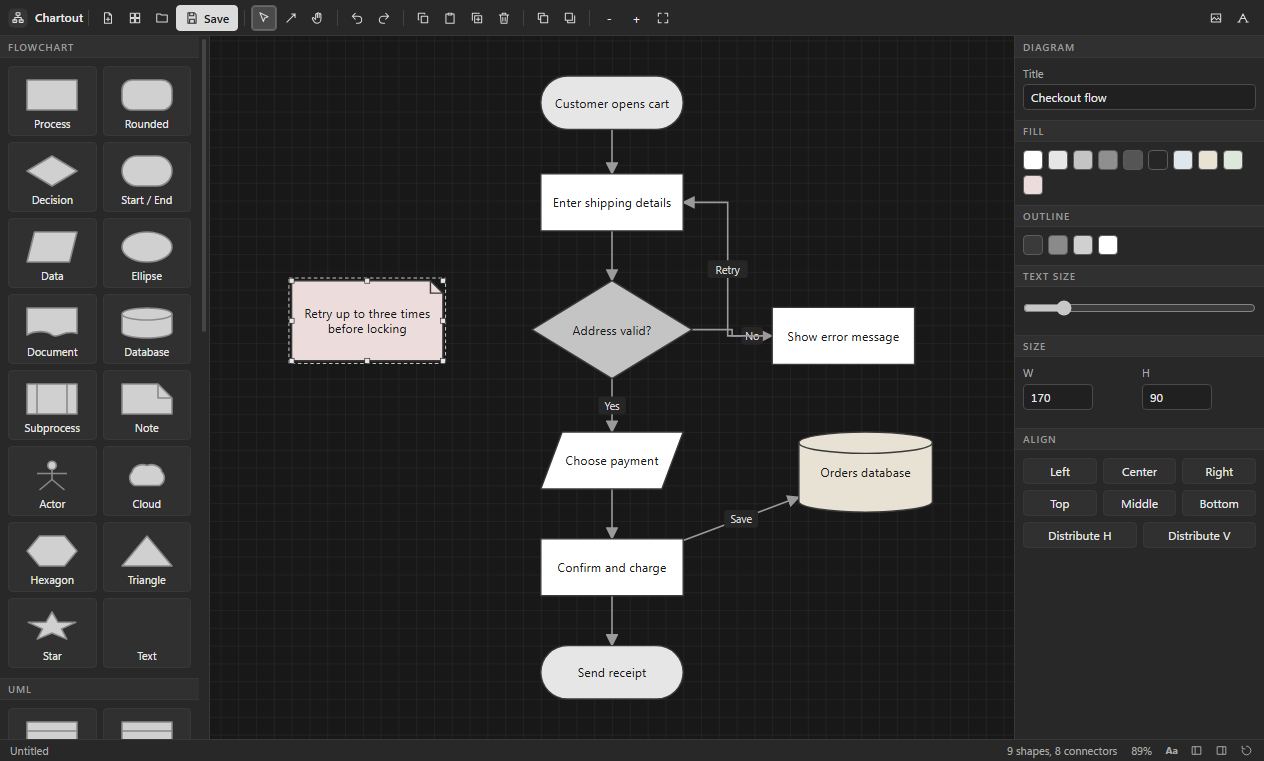
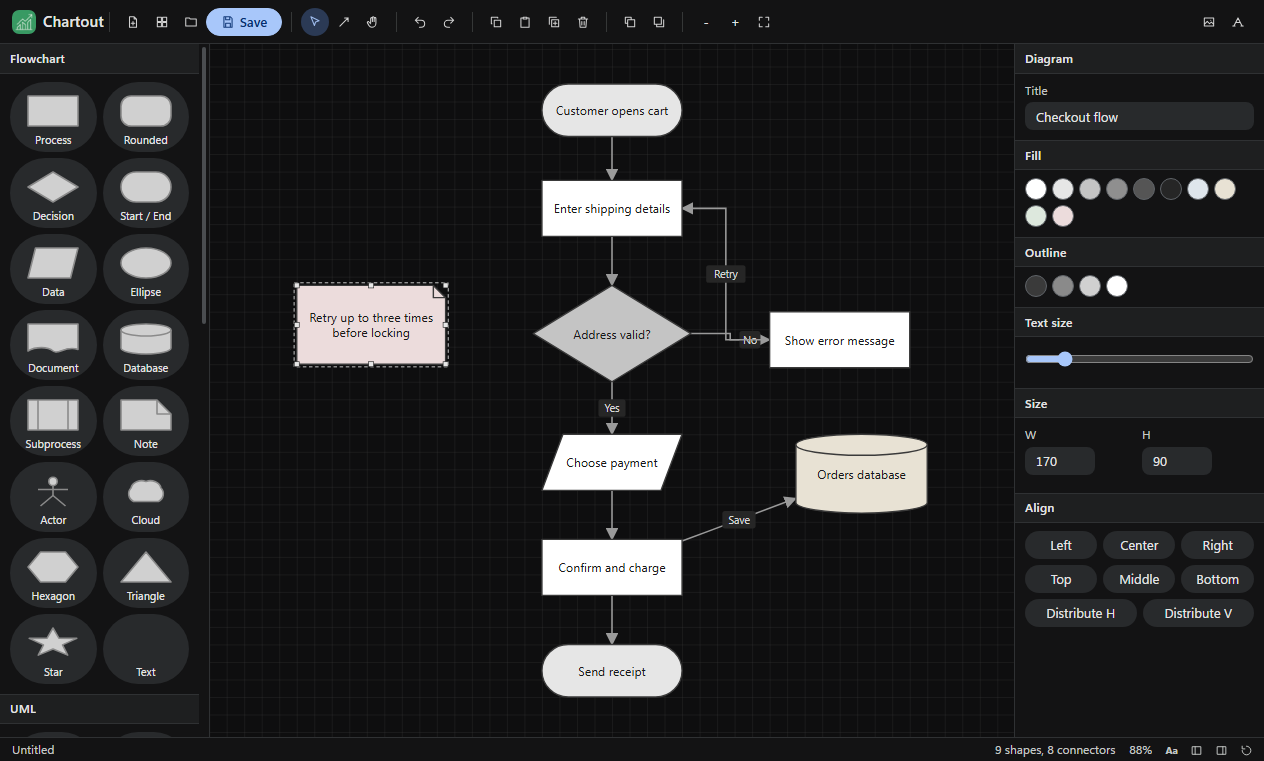
fix: Chartout 1.0.16
New Google-style look: charcoal theme, pill buttons, blue accent, colour app logo. Refreshed README and screenshots.

diff --git a/renderer/lookout.css b/renderer/lookout.css
@@ -1,68 +1,69 @@
-/* Lookout gray UI kit v3: compact pro workspace, flat, no hue. Shared by every Lookout app. */
+/* Lookout UI kit v4: Google-style dark (AI Studio / Colab / Gemini): soft surfaces, pill buttons, blue accent. Shared by every Lookout app. */
 :root{
-  --bg:#202020; --bg-2:#282828; --bg-3:#303030; --bg-4:#3a3a3a; --stage:#181818;
-  --line:#383838; --line-2:#4a4a4a; --line-3:#5c5c5c;
-  --text:#e8e8e8; --text-2:#ababab; --text-3:#9a9a9a;
-  --accent:#dcdcdc; --accent-ink:#1b1b1b; --focus:#a0a0a0;
-  --radius:4px; --h:26px; --pad:8px;
-  --font:"Segoe UI Variable Text","Segoe UI",system-ui,-apple-system,sans-serif; --mono:Consolas,"Cascadia Mono",monospace;
+  --bg:#131314; --bg-2:#1e1f20; --bg-3:#282a2c; --bg-4:#333537; --stage:#0e0e0f;
+  --line:#2f3133; --line-2:#444746; --line-3:#5f6368;
+  --text:#e3e3e3; --text-2:#c4c7c5; --text-3:#9aa0a6;
+  --accent:#a8c7fa; --accent-ink:#062e6f; --accent-2:#0b57d0; --accent-soft:#2b3a55; --focus:#a8c7fa;
+  --radius:8px; --h:28px; --pad:10px;
+  --font:"Google Sans Text","Google Sans",Roboto,"Segoe UI Variable Text","Segoe UI",system-ui,-apple-system,sans-serif; --mono:Consolas,"Cascadia Mono",monospace;
 }
 *{box-sizing:border-box;margin:0;padding:0}
-html,body{height:100%;background:var(--bg);color:var(--text);font:12px/1.4 var(--font);overflow:hidden;user-select:none;-webkit-font-smoothing:antialiased}
+html,body{height:100%;background:var(--bg);color:var(--text);font:13px/1.45 var(--font);overflow:hidden;user-select:none;-webkit-font-smoothing:antialiased}
 button,input,select,textarea{font:inherit;color:inherit}
 .app{display:grid;grid-template-rows:auto 1fr auto;height:100vh}
 
 /* ---------- toolbar ---------- */
-.toolbar{display:flex;align-items:center;gap:1px;padding:4px 8px;min-height:36px;background:var(--bg-2);border-bottom:1px solid var(--line);flex-wrap:nowrap;overflow-x:auto;overflow-y:hidden;scrollbar-width:none}
+.toolbar{display:flex;align-items:center;gap:1px;padding:6px 12px;min-height:44px;background:var(--bg);border-bottom:1px solid var(--line);flex-wrap:nowrap;overflow-x:auto;overflow-y:hidden;scrollbar-width:none}
 .toolbar::-webkit-scrollbar{height:0}
 .toolbar>*{flex-shrink:0}
-.toolbar .sep{width:1px;height:16px;align-self:center;background:var(--line-2);margin:0 5px;opacity:.8}
+.toolbar .sep{width:1px;height:20px;align-self:center;background:var(--line-2);margin:0 8px;opacity:.7}
 .toolbar .grow{flex:1 1 auto;min-width:8px}
 .toolbar input[type=text],.toolbar input[type=search]{width:150px}
-.brand{display:flex;align-items:center;gap:7px;padding-right:2px;margin-right:2px;font-weight:600;font-size:12px;color:var(--text)}
-.brand img{width:20px;height:20px;border-radius:5px;display:block}
+.brand{display:flex;align-items:center;gap:7px;padding-right:2px;margin-right:2px;font-weight:500;font-size:15px;letter-spacing:.1px;color:var(--text)}
+.brand img{width:24px;height:24px;border-radius:7px;display:block}
 .brand+.sep{margin-left:0}
 
 /* ---------- buttons ---------- */
-.btn{display:inline-flex;align-items:center;justify-content:center;gap:5px;height:var(--h);padding:0 8px;background:var(--bg-3);border:1px solid var(--line);border-radius:var(--radius);cursor:pointer;white-space:nowrap;line-height:1;transition:background .08s,border-color .08s}
-.btn:hover{background:var(--bg-4);border-color:var(--line-2)}
-.btn:active{background:#262626}
+.btn{display:inline-flex;align-items:center;justify-content:center;gap:5px;height:var(--h);padding:0 14px;background:var(--bg-3);border:1px solid transparent;border-radius:999px;cursor:pointer;white-space:nowrap;line-height:1;transition:background .08s,border-color .08s}
+.btn:hover{background:var(--bg-4)}
+.btn:active{background:#3c3f41}
 .btn:focus-visible,input:focus-visible,select:focus-visible,textarea:focus-visible,[tabindex]:focus-visible{outline:2px solid var(--focus);outline-offset:1px}
-.btn.primary{background:var(--accent);color:var(--accent-ink);border-color:var(--accent);font-weight:600}
-.btn.primary:hover{background:#ececec;border-color:#ececec}
-.btn.on{background:#4a4a4a;border-color:var(--line-3);box-shadow:inset 0 0 0 1px #6a6a6a}
+.btn.primary{background:var(--accent);color:var(--accent-ink);border-color:var(--accent);font-weight:500}
+.btn.primary:hover{background:#c2d7fb;border-color:#c2d7fb;box-shadow:0 1px 3px rgba(0,0,0,.4)}
+.btn.on{background:var(--accent-soft);color:var(--accent);border-color:transparent}
 .btn[disabled]{opacity:.45;pointer-events:none}
-.btn.icon{padding:0;width:var(--h);min-width:var(--h)}
+.btn.icon{padding:0;width:var(--h);min-width:var(--h);border-radius:50%}
 .btn .ic{width:14px;height:14px;flex-shrink:0;display:block;opacity:.92}
 .toolbar .btn:not(.primary):not(.on){background:transparent;border-color:transparent}
-.toolbar .btn:not(.primary):not(.on):hover{background:var(--bg-4);border-color:var(--line-2)}
+.toolbar .btn:not(.primary):not(.on):hover{background:var(--bg-3);border-color:transparent}
 
 /* icon-only toolbar: names live in the tooltip (Aa in the status bar brings the labels back) */
-.toolbar:not(.lbl) .btn:not(.primary):has(> svg.ic),.toolbar.c3 .btn:has(> svg.ic){font-size:0;gap:0;width:var(--h);padding:0}
+.toolbar:not(.lbl) .btn:not(.primary):has(> svg.ic),.toolbar.c3 .btn:has(> svg.ic){font-size:0;gap:0;width:var(--h);padding:0;border-radius:50%}
 .toolbar.c2 .brand span{display:none}
 .toolbar.c2 input[type=text],.toolbar.c2 input[type=search]{width:110px}
 .toolbar.lbl.c1 .btn.minor:not(.primary):has(> svg.ic),.toolbar.lbl.c2 .btn:not(.primary):has(> svg.ic){font-size:0;gap:0;width:var(--h);padding:0}
 
 /* ---------- fields ---------- */
-input[type=text],input[type=number],input[type=search],input[type=date],select,textarea{background:var(--bg);border:1px solid var(--line-2);border-radius:var(--radius);padding:0 7px;height:var(--h);user-select:text;min-width:0;font-size:12px}
+input[type=text],input[type=number],input[type=search],input[type=date],select,textarea{background:var(--bg-3);border:1px solid transparent;border-radius:var(--radius);padding:0 10px;height:var(--h);user-select:text;min-width:0;font-size:13px}
 input[type=number],.frow>input,.field>input{font-variant-numeric:tabular-nums}
 textarea{height:auto;padding:5px 7px;resize:vertical;line-height:1.4}
 select{padding-right:4px;cursor:pointer}
-input:hover,select:hover,textarea:hover{border-color:var(--line-3)}
-input[type=range]{accent-color:#c8c8c8;height:var(--h)}
-input[type=checkbox]{accent-color:#c8c8c8;width:14px;height:14px;cursor:pointer}
-input[type=color]{border:1px solid var(--line-2);background:var(--bg);width:26px;height:var(--h);padding:2px;border-radius:var(--radius)}
-label.field{display:flex;flex-direction:column;gap:3px;color:var(--text-2);font-size:11px}
-label.field>input,label.field>select,label.field>textarea{width:100%;color:var(--text);font-size:12px}
+input:hover,select:hover,textarea:hover{background:var(--bg-4)}
+input[type=text]:focus,input[type=number]:focus,input[type=search]:focus,input[type=date]:focus,select:focus,textarea:focus{outline:none;border-color:var(--accent);background:var(--bg-2)}
+input[type=range]{accent-color:#a8c7fa;height:var(--h)}
+input[type=checkbox]{accent-color:#a8c7fa;width:14px;height:14px;cursor:pointer}
+input[type=color]{border:1px solid var(--line-2);background:var(--bg-3);width:26px;height:var(--h);padding:2px;border-radius:var(--radius)}
+label.field{display:flex;flex-direction:column;gap:3px;color:var(--text-2);font-size:12px}
+label.field>input,label.field>select,label.field>textarea{width:100%;color:var(--text);font-size:13px}
 
 /* ---------- layout ---------- */
 .main{display:flex;min-height:0;min-width:0}
-.sidebar{width:210px;background:var(--bg-2);border-right:1px solid var(--line);overflow:auto;padding:var(--pad);flex-shrink:0;min-width:0}
+.sidebar{width:210px;background:var(--bg);border-right:1px solid var(--line);overflow:auto;padding:var(--pad);flex-shrink:0;min-width:0}
 .sidebar.right{border-right:0;border-left:1px solid var(--line);width:250px}
 .sidebar.collapsed{display:none!important}
-.sidebar h3,.panel-title{font-size:10px;text-transform:uppercase;letter-spacing:.09em;color:var(--text-3);font-weight:600}
+.sidebar h3,.panel-title{font-size:12px;letter-spacing:.2px;color:var(--text-2);font-weight:500}
 .sidebar h3{margin:12px 0 6px}
-.sidebar>h3{display:flex;align-items:center;gap:6px;height:22px;margin:10px calc(var(--pad) * -1) 8px;padding:0 var(--pad);background:var(--bg-3);border-top:1px solid var(--line);border-bottom:1px solid var(--line)}
+.sidebar>h3{display:flex;align-items:center;gap:6px;height:30px;margin:10px calc(var(--pad) * -1) 8px;padding:0 var(--pad);background:var(--bg-2);border-top:1px solid var(--line);border-bottom:1px solid var(--line);color:var(--text)}
 .sidebar>h3:first-child{margin-top:calc(var(--pad) * -1);border-top:0}
 .panel-title{margin:12px 0 6px}
 .sidebar input[type=text],.sidebar input[type=search],.sidebar select,.sidebar textarea{width:100%}
@@ -73,20 +74,20 @@ label.field>input,label.field>select,label.field>textarea{width:100%;color:var(-
 .sidebar .btn{width:auto}
 .sidebar>.btn{width:100%;margin-bottom:5px}
 .stage{flex:1;min-width:0;min-height:0;position:relative;background:var(--stage);overflow:auto}
-.status{display:flex;gap:14px;align-items:center;height:22px;padding:0 10px;background:var(--bg-2);border-top:1px solid var(--line);color:var(--text-2);font-size:11px;white-space:nowrap;overflow:hidden}
+.status{display:flex;gap:14px;align-items:center;height:24px;padding:0 12px;background:var(--bg);border-top:1px solid var(--line);color:var(--text-2);font-size:12px;white-space:nowrap;overflow:hidden}
 .status .grow{flex:1}
 body.hasdock .status{padding-right:112px}
-.wbs{position:fixed;right:6px;bottom:2px;height:18px;display:flex;gap:2px;z-index:8;background:var(--bg-2);padding-left:6px}
+.wbs{position:fixed;right:6px;bottom:2px;height:18px;display:flex;gap:2px;z-index:8;background:var(--bg);padding-left:6px}
 .wbs[hidden]{display:none}
-.wbs .wb{height:18px;min-width:22px;padding:0 4px;display:inline-flex;align-items:center;justify-content:center;font-size:10px;font-weight:700;line-height:1;background:transparent;border:1px solid transparent;border-radius:3px;color:var(--text-2);cursor:pointer}
+.wbs .wb{height:18px;min-width:22px;padding:0 4px;display:inline-flex;align-items:center;justify-content:center;font-size:10px;font-weight:700;line-height:1;background:transparent;border:1px solid transparent;border-radius:6px;color:var(--text-2);cursor:pointer}
 .wbs .wb[hidden]{display:none}
 .wbs .wb svg{width:13px;height:13px;display:block}
-.wbs .wb:hover{background:var(--bg-4);border-color:var(--line-2);color:var(--text)}
-.wbs .wb.on{background:var(--bg-4);border-color:var(--line-3);color:var(--text)}
+.wbs .wb:hover{background:var(--bg-3);color:var(--text)}
+.wbs .wb.on{background:var(--accent-soft);color:var(--accent)}
 .list{display:flex;flex-direction:column;gap:1px}
-.list .item{padding:3px 6px;border-radius:var(--radius);cursor:pointer;border:1px solid transparent;display:flex;gap:6px;align-items:center;min-height:26px}
+.list .item{padding:3px 10px;border-radius:999px;cursor:pointer;border:1px solid transparent;display:flex;gap:6px;align-items:center;min-height:26px}
 .list .item:hover{background:var(--bg-3)}
-.list .item.sel{background:var(--bg-4);border-color:var(--line-2)}
+.list .item.sel{background:var(--accent-soft);color:var(--accent);border-color:transparent}
 .row{display:flex;gap:5px;align-items:center}
 .grow{flex:1 1 auto;min-width:0}
 .brow{display:grid;grid-template-columns:1fr 1fr;gap:5px;margin-bottom:5px}
@@ -99,17 +100,17 @@ body.hasdock .status{padding-right:112px}
 .sidebar .swatches{margin-bottom:8px}
 .list .item .btn{height:22px!important;width:24px!important;padding:0!important;font-size:0!important;gap:0;background:transparent;border-color:transparent;opacity:.55}
 .list .item:hover .btn,.list .item.sel .btn{opacity:1}
-.list .item .btn:hover{background:var(--bg-4);border-color:var(--line-2)}
+.list .item .btn:hover{background:var(--bg-4)}
 .col{display:flex;flex-direction:column;gap:5px}
 .muted{color:var(--text-2)}
 .empty{position:absolute;inset:0;display:flex;flex-direction:column;align-items:center;justify-content:center;gap:10px;color:var(--text-3);text-align:center;padding:24px}
-.empty .big{font-size:16px;color:var(--text-2);font-weight:600}
+.empty .big{font-size:20px;color:var(--text);font-weight:400}
 
 /* panel grip: drag to resize, double-click to collapse or restore */
 .grip{position:relative;flex:0 0 5px;width:5px;margin:0 -3px 0 -2px;z-index:6;cursor:col-resize;touch-action:none}
 .grip::after{content:"";position:absolute;top:0;bottom:0;left:2px;width:1px;background:transparent;transition:background .1s}
-.grip:hover::after,.grip.drag::after{background:var(--line-3);width:2px;left:1px}
-.grip.collapsed{flex:0 0 8px;width:8px;margin:0;background:var(--bg-2);border-left:1px solid var(--line);border-right:1px solid var(--line)}
+.grip:hover::after,.grip.drag::after{background:var(--accent);width:2px;left:1px}
+.grip.collapsed{flex:0 0 8px;width:8px;margin:0;background:var(--bg);border-left:1px solid var(--line);border-right:1px solid var(--line)}
 .grip.collapsed::after{left:3px;top:calc(50% - 14px);bottom:auto;height:28px;width:2px;background:var(--line-3);border-radius:2px}
 .grip.collapsed:hover{background:var(--bg-3)}
 body.gripping{cursor:col-resize}
@@ -117,30 +118,30 @@ body.gripping *{cursor:col-resize!important;user-select:none!important}
 
 /* ---------- overlays ---------- */
 .modal-back{position:fixed;inset:0;background:rgba(0,0,0,.6);display:flex;align-items:center;justify-content:center;z-index:50}
-.modal{background:var(--bg-2);border:1px solid var(--line-2);border-radius:8px;min-width:340px;max-width:80vw;max-height:85vh;overflow:auto;padding:16px;display:flex;flex-direction:column;gap:12px;box-shadow:0 18px 50px rgba(0,0,0,.5)}
-.modal h2{font-size:14px;font-weight:600}
-.toast{position:fixed;left:50%;bottom:34px;transform:translateX(-50%);background:var(--bg-4);border:1px solid var(--line-3);padding:7px 14px;border-radius:6px;z-index:60;box-shadow:0 8px 24px rgba(0,0,0,.4)}
-.progress{height:5px;background:var(--bg);border:1px solid var(--line);border-radius:4px;overflow:hidden}
+.modal{background:var(--bg-2);border:0;border-radius:24px;min-width:360px;max-width:80vw;max-height:85vh;overflow:auto;padding:24px;display:flex;flex-direction:column;gap:14px;box-shadow:0 8px 32px rgba(0,0,0,.6)}
+.modal h2{font-size:20px;font-weight:400}
+.toast{position:fixed;left:50%;bottom:34px;transform:translateX(-50%);background:#e3e3e3;color:#1f1f1f;border:0;padding:10px 18px;border-radius:8px;z-index:60;box-shadow:0 8px 24px rgba(0,0,0,.4)}
+.progress{height:6px;background:var(--bg-3);border:0;border-radius:999px;overflow:hidden}
 .progress>i,.progress>div{display:block;height:100%;background:var(--accent);width:0}
 
 /* ---------- tables ---------- */
 table.grid{border-collapse:separate;border-spacing:0;width:100%}
 table.grid th,table.grid td{border-bottom:1px solid var(--line);padding:0 10px;height:30px;text-align:left;vertical-align:middle}
-table.grid th{background:var(--bg-2);color:var(--text-2);font-weight:600;font-size:11px;position:sticky;top:0;z-index:1;height:26px}
-table.grid tbody tr:hover td{background:#242424}
-table.grid tr.sel td{background:#323232}
+table.grid th{background:var(--bg-2);color:var(--text-2);font-weight:500;font-size:12px;position:sticky;top:0;z-index:1;height:26px}
+table.grid tbody tr:hover td{background:var(--bg-2)}
+table.grid tr.sel td{background:var(--accent-soft)}
 table.grid tbody tr{cursor:default}
 table.grid td .btn{height:22px;margin-left:6px;vertical-align:middle}
 table.grid td{white-space:nowrap}
 
 /* ---------- misc ---------- */
 ::-webkit-scrollbar{width:10px;height:10px}
-::-webkit-scrollbar-thumb{background:#454545;border:3px solid transparent;background-clip:padding-box;border-radius:8px}
-::-webkit-scrollbar-thumb:hover{background:#5a5a5a;background-clip:padding-box;border:3px solid transparent}
+::-webkit-scrollbar-thumb{background:#4a4d50;border:3px solid transparent;background-clip:padding-box;border-radius:8px}
+::-webkit-scrollbar-thumb:hover{background:#6b6f73;background-clip:padding-box;border:3px solid transparent}
 ::-webkit-scrollbar-track,::-webkit-scrollbar-corner{background:transparent}
 .swatches{display:flex;flex-wrap:wrap;gap:5px}
-.swatches button{width:20px;height:20px;border:1px solid var(--line-3);border-radius:4px;cursor:pointer;padding:0}
+.swatches button{width:22px;height:22px;border:1px solid var(--line-3);border-radius:50%;cursor:pointer;padding:0}
 .swatches button.on{outline:2px solid var(--accent);outline-offset:2px}
-kbd{font-family:var(--mono);font-size:10px;background:var(--bg-3);border:1px solid var(--line-2);border-bottom-width:2px;border-radius:3px;padding:0 4px}
+kbd{font-family:var(--mono);font-size:10px;background:var(--bg-3);border:1px solid var(--line-2);border-bottom-width:2px;border-radius:4px;padding:0 5px}
 
 input::placeholder,textarea::placeholder{color:var(--text-3);opacity:1}

diff --git a/README.md b/README.md
@@ -1,8 +1,10 @@
-<p align="center"><img src="screenshots/banner.png" alt="Chartout" width="100%"></p>
+<p align="center"><img src="screenshots/logo.png" alt="Chartout" width="128"></p>
 
-<p align="center"><b>Flowcharts and diagrams</b><br>Version 1.0.3 for Windows · Free · Offline · No account</p>
+<h1 align="center">Chartout</h1>
 
-<p align="center"><a href="https://github.com/plawanpawin-byte/chartout/releases/latest"><b>Download Chartout</b></a> · <a href="https://github.com/plawanpawin-byte/Lookout">All Lookout apps</a></p>
+<p align="center"><b>Flowcharts and diagrams</b><br>Version 1.0.16 for Windows · Free · Offline · No account</p>
+
+<p align="center"><a href="https://github.com/plawanpawin-byte/chartout/releases/latest"><b>Download Chartout</b></a> · <a href="https://github.com/plawanpawin-byte/lookout-launcher">Lookout launcher</a> · <a href="https://github.com/plawanpawin-byte/Lookout">All Lookout apps</a></p>
 
 ---
 
@@ -12,11 +14,51 @@ Chartout is a diagram maker for flowcharts, org charts, process maps and quick s
 
 ![Chartout](screenshots/01-flowchart.png)
 
-**On this page:** [Screenshots](#see-it-in-action) · [Interface](#the-interface) · [Features](#everything-it-can-do) · [How to use it](#how-to-use-it) · [Shortcuts](#keyboard-shortcuts) · [Formats](#files-and-formats) · [Privacy](#private-by-design) · [Install](#install) · [Questions](#questions)
+**On this page:** [In plain words](#in-plain-words) · [Who it is for](#who-it-is-for) · [Try it in 3 steps](#try-it-in-3-steps) · [Screenshots](#see-it-in-action) · [Features](#everything-it-can-do) · [How to use it](#how-to-use-it) · [Privacy](#private-by-design) · [Install](#install) · [Questions](#questions)
 
-## What is new in 1.0.3
+## In plain words
 
-A refreshed interface: every toolbar button now has a clear line icon, the app's mark sits at the top left, controls share one height and spacing, panels line up in tidy grids, and the toolbar keeps every button reachable on smaller windows by switching less important buttons to icons.
+Chartout is a drawing program for **diagrams that show how things connect**: a flowchart of how an order is handled, an organisation chart, a process map, the steps of a recipe, or a quick sketch of how a system works. You drag shapes (boxes, diamonds, circles) from the left panel onto a big blank canvas, type text in them, and join them with arrows.
+
+The arrows are **connectors**: they stay attached to the shapes. If you move a box, the arrow follows it, so you can rearrange a diagram without redrawing anything. When you are happy, export it as a PNG picture or an SVG drawing and paste it into a document or slide.
+
+**Not for:** Chartout is for diagrams made of boxes and arrows. It is not a chart maker for numbers (bar or pie charts) and not a full vector illustration program.
+
+## Who it is for
+
+- **Teams** documenting how work flows from one step to the next.
+- **Students** drawing algorithms, decision trees or family trees.
+- **Managers** who need a clean org chart for a presentation.
+
+## Try it in 3 steps
+
+1. Drag a **Process** shape onto the canvas and double-click it to type.
+2. Join two shapes with a connector (the How to use it steps below show how). It stays attached when you move them.
+3. Select several shapes and use the align and distribute buttons to line them up neatly. Then export a PNG.
+
+## What is new in 1.0.16
+
+A new look inspired by Google's own tools (AI Studio, Colab, Gemini): a calm dark charcoal theme, rounded pill buttons, a soft blue accent and roomier spacing. The app icon is now a colour logo so you can find Chartout at a glance in the Start menu and in the Lookout launcher. All screenshots below were taken again with the new look.
+
+## In plain words
+
+Chartout is a drawing program for **diagrams that show how things connect**: a flowchart of how an order is handled, an organisation chart, a process map, the steps of a recipe, or a quick sketch of how a system works. You drag shapes (boxes, diamonds, circles) from the left panel onto a big blank canvas, type text in them, and join them with arrows.
+
+The arrows are **connectors**: they stay attached to the shapes. If you move a box, the arrow follows it, so you can rearrange a diagram without redrawing anything. When you are happy, export it as a PNG picture or an SVG drawing and paste it into a document or slide.
+
+**Not for:** Chartout is for diagrams made of boxes and arrows. It is not a chart maker for numbers (bar or pie charts) and not a full vector illustration program.
+
+## Who it is for
+
+- **Teams** documenting how work flows from one step to the next.
+- **Students** drawing algorithms, decision trees or family trees.
+- **Managers** who need a clean org chart for a presentation.
+
+## Try it in 3 steps
+
+1. Drag a **Process** shape onto the canvas and double-click it to type.
+2. Join two shapes with a connector (the How to use it steps below show how). It stays attached when you move them.
+3. Select several shapes and use the align and distribute buttons to line them up neatly. Then export a PNG.
 
 ## See it in action
 
@@ -121,7 +163,7 @@ Saves .chartout files. Exports PNG and SVG.
 
 ## Install
 
-1. Open the [latest release](https://github.com/plawanpawin-byte/chartout/releases/latest) and download the file named **Chartout-Setup-** followed by the version number and **.exe**. You can also install it from the [Lookout launcher](https://github.com/${OWNER}/lookout-launcher), which keeps it up to date.
+1. Open the [latest release](https://github.com/plawanpawin-byte/chartout/releases/latest) and download the file named **Chartout-Setup-** followed by the version number and **.exe**. You can also install it from the [Lookout launcher](https://github.com/plawanpawin-byte/lookout-launcher), which keeps it up to date.
 2. Run the installer. It installs just for you, so it does not ask for administrator rights.
 3. Windows may show a blue **Windows protected your PC** screen because these installers are not signed with a paid certificate. Click **More info**, then **Run anyway**.
 4. Open Chartout from the Start menu.
@@ -136,18 +178,40 @@ Not yet. Export your old diagrams as images and redraw the parts you need.
 **Is there a limit on diagram size?**  
 No fixed limit. Use Fit to see a large diagram at once.
 
+**What is the difference between PNG and SVG export?**  
+PNG is a normal picture that opens anywhere. SVG stays sharp at any size and can still be edited in other drawing tools.
+
+**Can I reopen and keep editing a diagram?**  
+Yes. Save the diagram as a project file and open it again later; every shape and connector comes back.
+
+**Is there a limit to the canvas size?**  
+The canvas is effectively unlimited. Use zoom and Fit to move around.
+
+**What is the difference between PNG and SVG export?**  
+PNG is a normal picture that opens anywhere. SVG stays sharp at any size and can still be edited in other drawing tools.
+
+**Can I reopen and keep editing a diagram?**  
+Yes. Save the diagram as a project file and open it again later; every shape and connector comes back.
+
+**Is there a limit to the canvas size?**  
+The canvas is effectively unlimited. Use zoom and Fit to move around.
+
 ## About Lookout
 
-Chartout belongs to the **[Lookout](https://github.com/plawanpawin-byte/Lookout)** family: ten small, private Windows apps for documents and media, all with the same calm grey look and the same promise that your files stay yours. Install and update them together with the [Lookout launcher](https://github.com/plawanpawin-byte/lookout-launcher).
+Chartout is part of **[Lookout](https://github.com/plawanpawin-byte/Lookout)**: ten small, private Windows apps for documents and media that share one look and one promise, that your files stay on your computer. Install and update them together with the [Lookout launcher](https://github.com/plawanpawin-byte/lookout-launcher).
 
-- **[Pageout](https://github.com/plawanpawin-byte/pageout)**: read, annotate and sign pdfs
-- **[Branchout](https://github.com/plawanpawin-byte/branchout)**: mind maps and outlines
-- **[Planout](https://github.com/plawanpawin-byte/planout)**: plans and gantt timelines
-- **[Frameout](https://github.com/plawanpawin-byte/frameout)**: screen design and prototypes
-- **[Cutout](https://github.com/plawanpawin-byte/cutout)**: video editing on a timeline
-- **[Shiftout](https://github.com/plawanpawin-byte/shiftout)**: convert and compress media
-- **[Castout](https://github.com/plawanpawin-byte/castout)**: record your screen
-- **[Mendout](https://github.com/plawanpawin-byte/mendout)**: repair damaged media
-- **[Tuneout](https://github.com/plawanpawin-byte/tuneout)**: record and edit audio
+| | App | What it is for | Code |
+| --- | --- | --- | --- |
+| <img src="https://raw.githubusercontent.com/plawanpawin-byte/lookout-launcher/main/build/icon.png" width="32" alt="Lookout"> | **Lookout** | Install, open and update all the apps below | [GitHub](https://github.com/plawanpawin-byte/lookout-launcher) |
+| <img src="https://raw.githubusercontent.com/plawanpawin-byte/pageout/main/build/icon.png" width="32" alt="Pageout"> | **Pageout** | Read, annotate and sign PDFs | [GitHub](https://github.com/plawanpawin-byte/pageout) |
+| <img src="https://raw.githubusercontent.com/plawanpawin-byte/chartout/main/build/icon.png" width="32" alt="Chartout"> | **Chartout** | Flowcharts, org charts and diagrams | [GitHub](https://github.com/plawanpawin-byte/chartout) |
+| <img src="https://raw.githubusercontent.com/plawanpawin-byte/branchout/main/build/icon.png" width="32" alt="Branchout"> | **Branchout** | Mind maps and outlines | [GitHub](https://github.com/plawanpawin-byte/branchout) |
+| <img src="https://raw.githubusercontent.com/plawanpawin-byte/planout/main/build/icon.png" width="32" alt="Planout"> | **Planout** | Project plans and Gantt timelines | [GitHub](https://github.com/plawanpawin-byte/planout) |
+| <img src="https://raw.githubusercontent.com/plawanpawin-byte/frameout/main/build/icon.png" width="32" alt="Frameout"> | **Frameout** | App and web screen design with click-through prototypes | [GitHub](https://github.com/plawanpawin-byte/frameout) |
+| <img src="https://raw.githubusercontent.com/plawanpawin-byte/cutout/main/build/icon.png" width="32" alt="Cutout"> | **Cutout** | Video editing on a timeline | [GitHub](https://github.com/plawanpawin-byte/cutout) |
+| <img src="https://raw.githubusercontent.com/plawanpawin-byte/shiftout/main/build/icon.png" width="32" alt="Shiftout"> | **Shiftout** | Convert and compress video and audio, make GIFs | [GitHub](https://github.com/plawanpawin-byte/shiftout) |
+| <img src="https://raw.githubusercontent.com/plawanpawin-byte/castout/main/build/icon.png" width="32" alt="Castout"> | **Castout** | Record your screen | [GitHub](https://github.com/plawanpawin-byte/castout) |
+| <img src="https://raw.githubusercontent.com/plawanpawin-byte/mendout/main/build/icon.png" width="32" alt="Mendout"> | **Mendout** | Check and repair damaged video, audio, pictures and PDFs | [GitHub](https://github.com/plawanpawin-byte/mendout) |
+| <img src="https://raw.githubusercontent.com/plawanpawin-byte/tuneout/main/build/icon.png" width="32" alt="Tuneout"> | **Tuneout** | Record and edit audio | [GitHub](https://github.com/plawanpawin-byte/tuneout) |
 
 Released under the MIT License.
